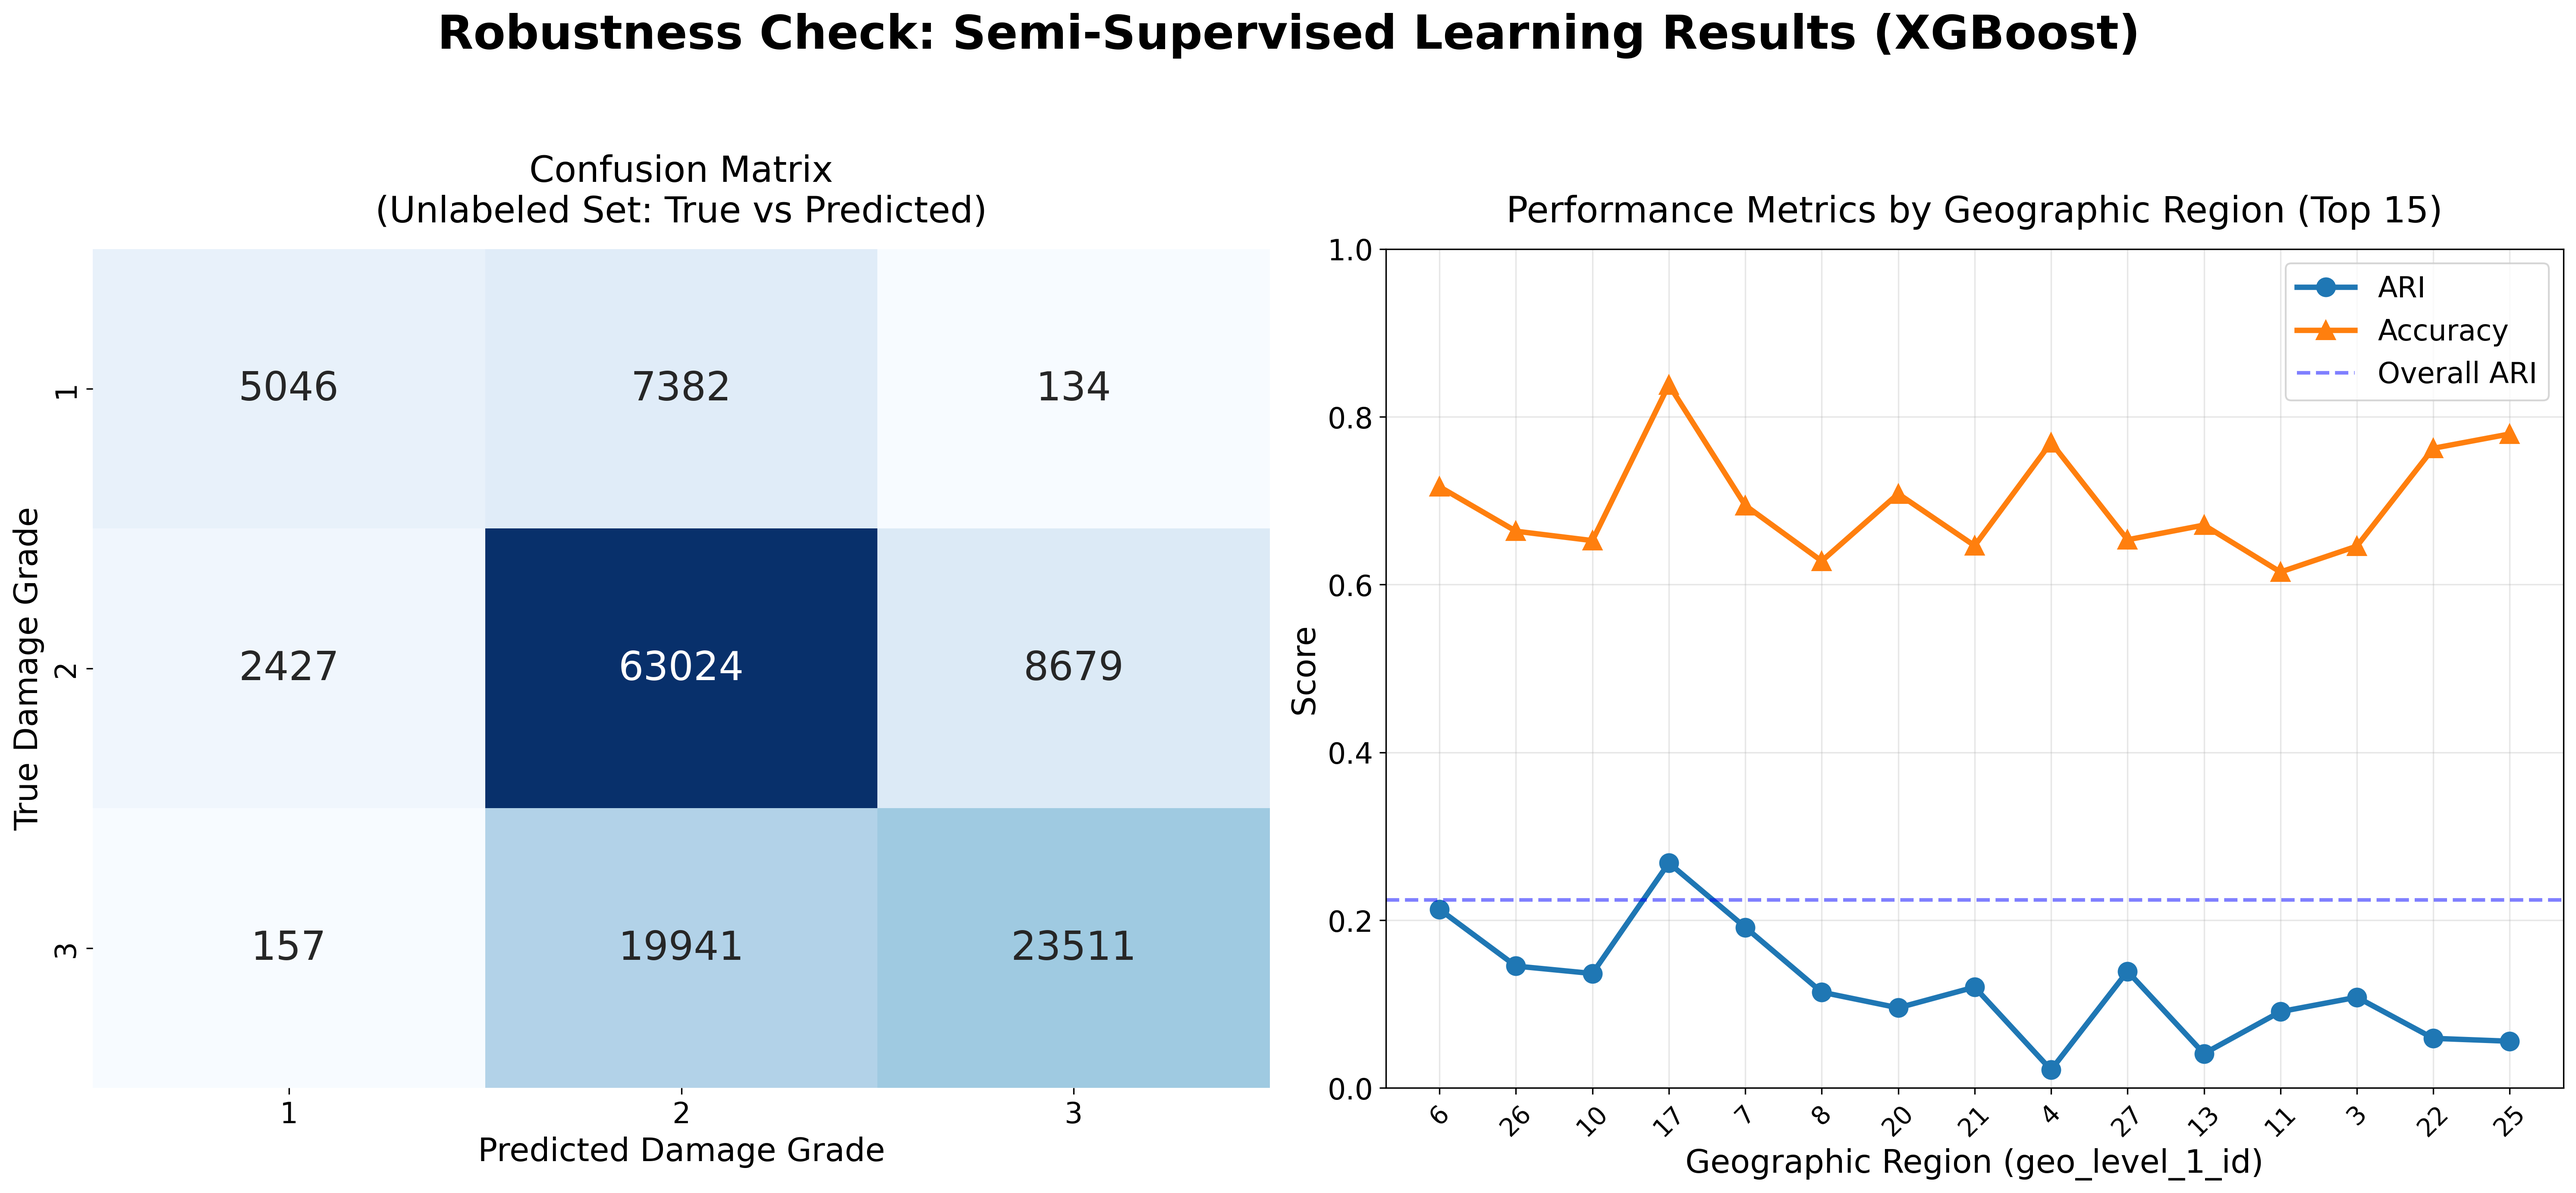
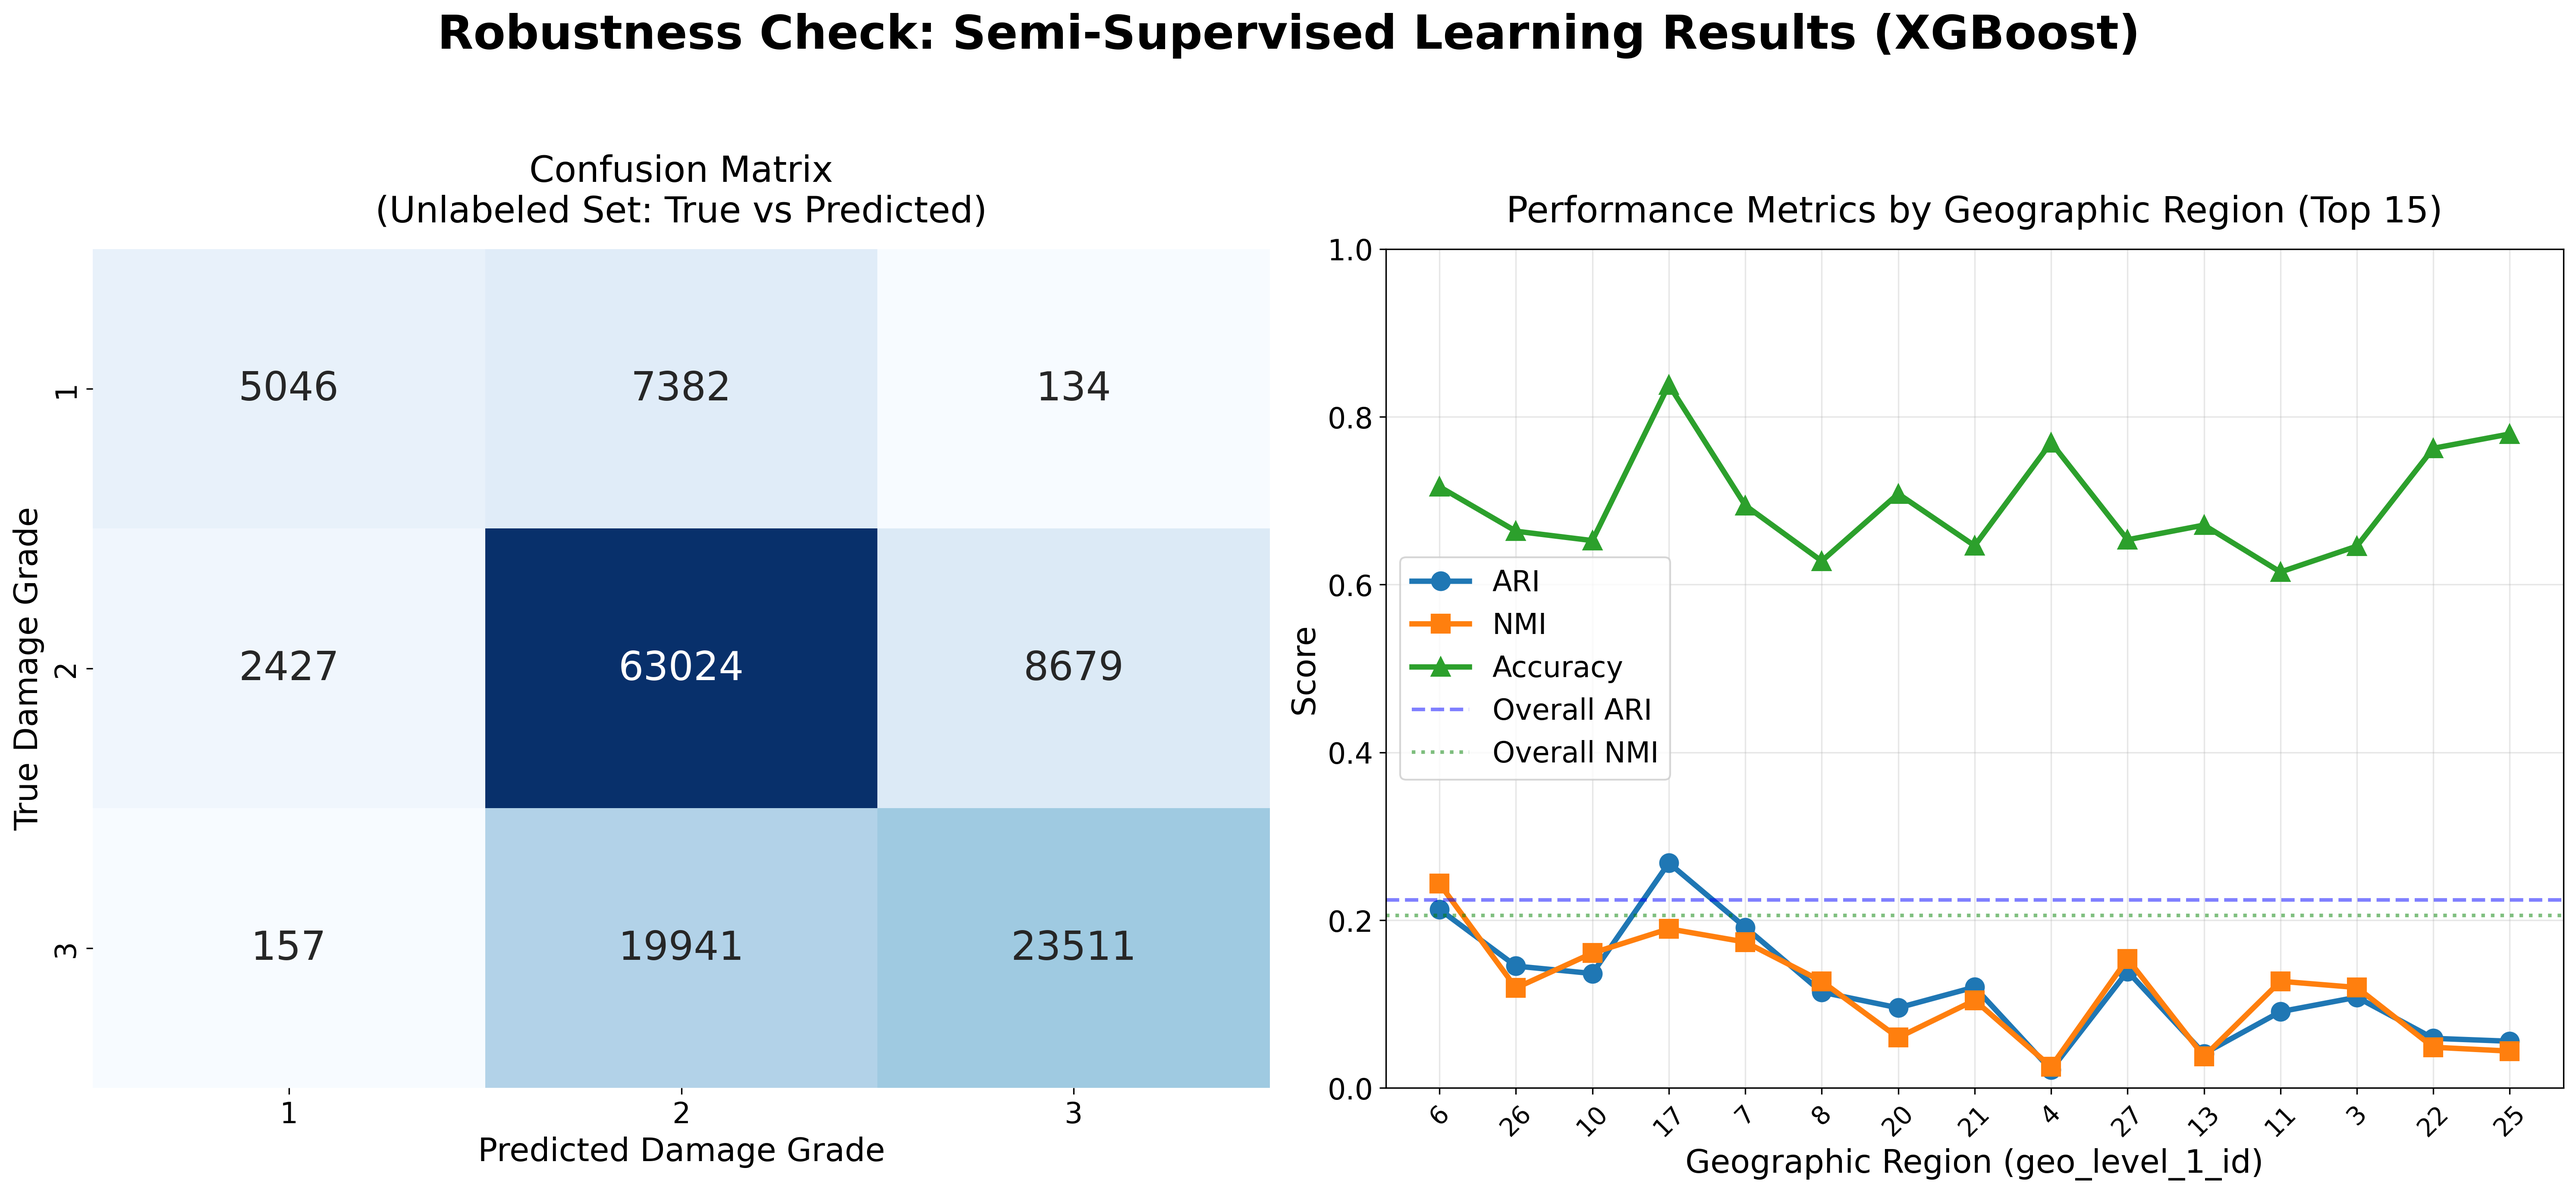
add nmi

diff --git a/semi_supervised_learning.py b/semi_supervised_learning.py
@@ -3,8 +3,7 @@ import numpy as np
 from sklearn.model_selection import train_test_split
 from sklearn.preprocessing import StandardScaler
 from xgboost import XGBClassifier
-from sklearn.metrics import (adjusted_rand_score, normalized_mutual_info_score, 
-                             classification_report, confusion_matrix, accuracy_score)
+from sklearn.metrics import (adjusted_rand_score, normalized_mutual_info_score, confusion_matrix, accuracy_score)
 import matplotlib.pyplot as plt
 import seaborn as sns
 import os
@@ -29,7 +28,7 @@ def preprocess_data(df):
     geo_level_1 = df['geo_level_1_id'].copy()
     
     categorical_cols = X.select_dtypes(include=['object']).columns.tolist()
-    # One-hot encoding to match teammate's approach
+    # One-hot encoding to align with the main model methodology
     X_encoded = pd.get_dummies(X, columns=categorical_cols, drop_first=False)
     
     scaler = StandardScaler()
@@ -48,7 +47,7 @@ def analyze_geographic_subsets(y_true, y_pred, geo_ids):
     for geo_id in unique_geo_levels:
         geo_mask = geo_ids == geo_id
         if geo_mask.sum() < 5: continue
-        
+
         y_t = y_true[geo_mask]
         y_p = y_pred[geo_mask]
         
@@ -62,102 +61,99 @@ def analyze_geographic_subsets(y_true, y_pred, geo_ids):
     
     return pd.DataFrame(geo_results).sort_values('n_samples', ascending=False)
 
-# ============================================================================
+# ===========================================================================
 # STEP 8 & 9: VISUALIZATION & SAVING
 # ============================================================================
+
 def create_visualizations(y_true, y_pred, metrics, geo_results_df, output_path):
-    print("="*80)
-    print("STEP 8: CREATING VISUALIZATIONS (WITH LARGER FONTS)")
-    print("="*80)
-    
     fig, axes = plt.subplots(1, 2, figsize=(20, 9))
     fig.suptitle('Robustness Check: Semi-Supervised Learning Results (XGBoost)', fontsize=26, fontweight='bold', y=1.02)
-    
     ax1 = axes[0]
     cm = metrics['confusion_matrix']
-    
     sns.heatmap(cm, annot=True, fmt='d', cmap='Blues', ax=ax1,
-                xticklabels=[1, 2, 3], yticklabels=[1, 2, 3],
-                annot_kws={"size": 22}, cbar=False)
-    
+    xticklabels=[1, 2, 3], yticklabels=[1, 2, 3],
+    annot_kws={"size": 22}, cbar=False)
     ax1.set_title('Confusion Matrix\n(Unlabeled Set: True vs Predicted)', fontsize=20, pad=15)
     ax1.set_xlabel('Predicted Damage Grade', fontsize=18)
     ax1.set_ylabel('True Damage Grade', fontsize=18)
-    
     ax1.tick_params(axis='both', which='major', labelsize=16)
-    
+
     ax2 = axes[1]
     geo_top_15 = geo_results_df.head(15)
     x_geo = range(len(geo_top_15))
-    
     ax2.plot(x_geo, geo_top_15['ARI'], marker='o', label='ARI', linewidth=3, markersize=10)
+    ax2.plot(x_geo, geo_top_15['NMI'], marker='s', label='NMI', linewidth=3, markersize=10)
     ax2.plot(x_geo, geo_top_15['Accuracy'], marker='^', label='Accuracy', linewidth=3, markersize=10)
-    
     ax2.axhline(y=metrics['ARI'], color='blue', linestyle='--', alpha=0.5, linewidth=2, label='Overall ARI')
-    
+    ax2.axhline(y=metrics['NMI'], color='green', linestyle=':', alpha=0.5, linewidth=2, label='Overall NMI')
     ax2.set_title('Performance Metrics by Geographic Region (Top 15)', fontsize=20, pad=15)
     ax2.set_xlabel('Geographic Region (geo_level_1_id)', fontsize=18)
     ax2.set_ylabel('Score', fontsize=18)
-    
     ax2.set_xticks(x_geo)
     ax2.set_xticklabels(geo_top_15['geo_level_1_id'], rotation=45, fontsize=14)
     ax2.tick_params(axis='y', which='major', labelsize=16)
-    
     ax2.legend(loc='best', fontsize=16)
     ax2.grid(True, alpha=0.3)
     ax2.set_ylim([0, 1])
-    
-    plt.tight_layout(rect=[0, 0, 1, 0.97]) 
+    plt.tight_layout(rect=[0, 0, 1, 0.97])
     plt.savefig(output_path, dpi=300, bbox_inches='tight')
     plt.close()
-    
     print(f"Visualization (Large Font) saved to: {output_path}")
+
     print()
 
 def save_detailed_results(metrics, geo_results_df, labeled_percentage, output_dir):
     os.makedirs(output_dir, exist_ok=True)
-    with open(f"{output_dir}/semi_supervised_summary.txt", 'w') as f:
-        f.write("ROBUSTNESS CHECK SUMMARY\n")
+    summary_path = f"{output_dir}/semi_supervised_summary.txt"
+    with open(summary_path, 'w') as f:
+        f.write("SEMI-SUPERVISED LEARNING ROBUSTNESS CHECK SUMMARY\n")
+        f.write("="*50 + "\n")
         f.write(f"Algorithm: XGBoost\n")
-        f.write(f"Labeled Data: {labeled_percentage*100}%\n")
-        f.write(f"Overall ARI: {metrics['ARI']:.4f}\n")
+        f.write(f"Labeled Data Proportion: {labeled_percentage*100}%\n")
+        f.write("-" * 50 + "\n")
         f.write(f"Overall Accuracy: {metrics['Accuracy']:.4f}\n")
+        f.write(f"Overall ARI:      {metrics['ARI']:.4f}\n")
+        f.write(f"Overall NMI:      {metrics['NMI']:.4f}\n")
+        f.write("-" * 50 + "\n")
+        f.write("Interpretation: ARI and NMI confirm structural consistency of the feature space.\n")
+    
     geo_results_df.to_csv(f"{output_dir}/semi_supervised_geo_analysis.csv", index=False)
+    print(f"Detailed results saved to: {summary_path}")
 
 # ============================================================================
 # MAIN EXECUTION
 # ============================================================================
 def run_semi_supervised_analysis(labels_path, values_path, labeled_percentage=0.5, output_dir='./report'):
-    # Step 1 & 2
     df = load_and_prepare_data(labels_path, values_path)
     X_scaled_df, y, building_ids, geo_level_1 = preprocess_data(df)
     
-    # Step 3: Split
+    # Step 3: Split into labeled and unlabeled simulation
     X_labeled, X_unlabeled, y_labeled, y_unlabeled_true = train_test_split(
         X_scaled_df, y, test_size=(1-labeled_percentage), stratify=y, random_state=RANDOM_SEED
     )
     geo_unlabeled = geo_level_1.loc[X_unlabeled.index]
     
-    # Step 4: Train & Predict
-    print("Training XGBoost for Robustness Check...")
+    # Step 4: Training
+    print(f"Training XGBoost on {labeled_percentage*100}% labeled data...")
     model = XGBClassifier(n_estimators=100, max_depth=6, learning_rate=0.1, random_state=RANDOM_SEED)
     model.fit(X_labeled, y_labeled)
     y_pred = model.predict(X_unlabeled)
     
-    # Step 6 & 7: Evaluate
+    # Step 5: Metrics Evaluation
     metrics = {
         'ARI': adjusted_rand_score(y_unlabeled_true, y_pred),
         'NMI': normalized_mutual_info_score(y_unlabeled_true, y_pred),
         'Accuracy': accuracy_score(y_unlabeled_true, y_pred),
         'confusion_matrix': confusion_matrix(y_unlabeled_true, y_pred)
     }
+    
     geo_results_df = analyze_geographic_subsets(y_unlabeled_true, y_pred, geo_unlabeled)
     
-    # Step 8 & 9: Output
+    # Step 6: Output
     create_visualizations(y_unlabeled_true, y_pred, metrics, geo_results_df, f"{output_dir}/semi_supervised_results.png")
     save_detailed_results(metrics, geo_results_df, labeled_percentage, output_dir)
     
-    print(f"Done! ARI: {metrics['ARI']:.4f}")
+    print(f"Execution Complete. Accuracy: {metrics['Accuracy']:.4f}, ARI: {metrics['ARI']:.4f}, NMI: {metrics['NMI']:.4f}")
 
 if __name__ == "__main__":
     run_semi_supervised_analysis(
